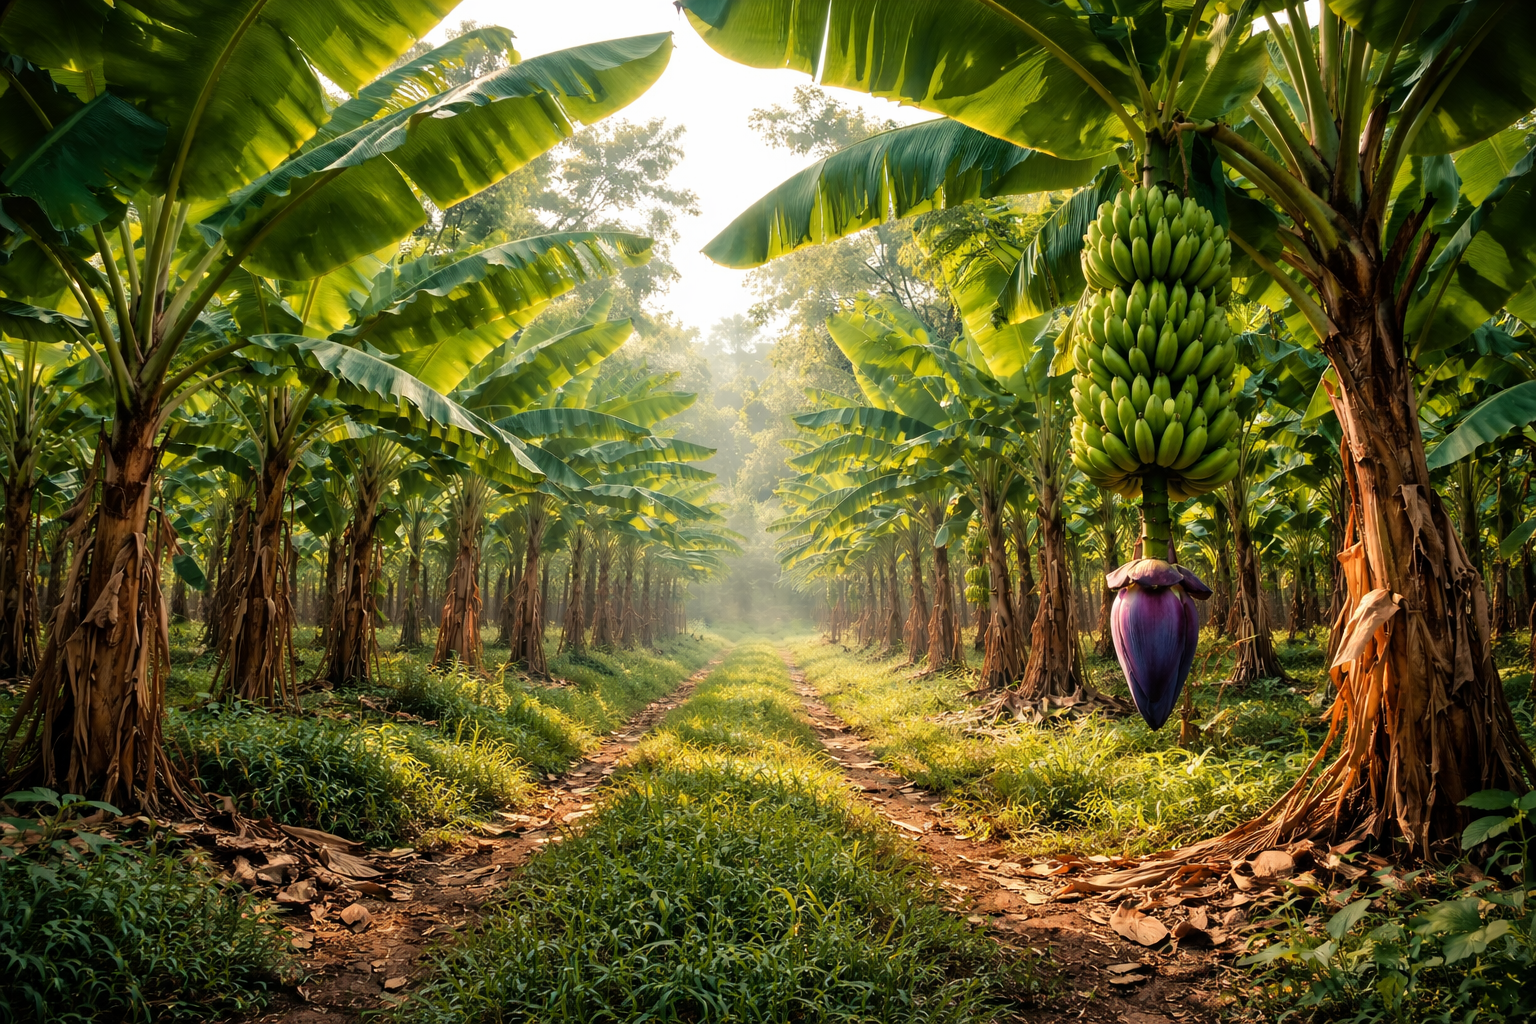
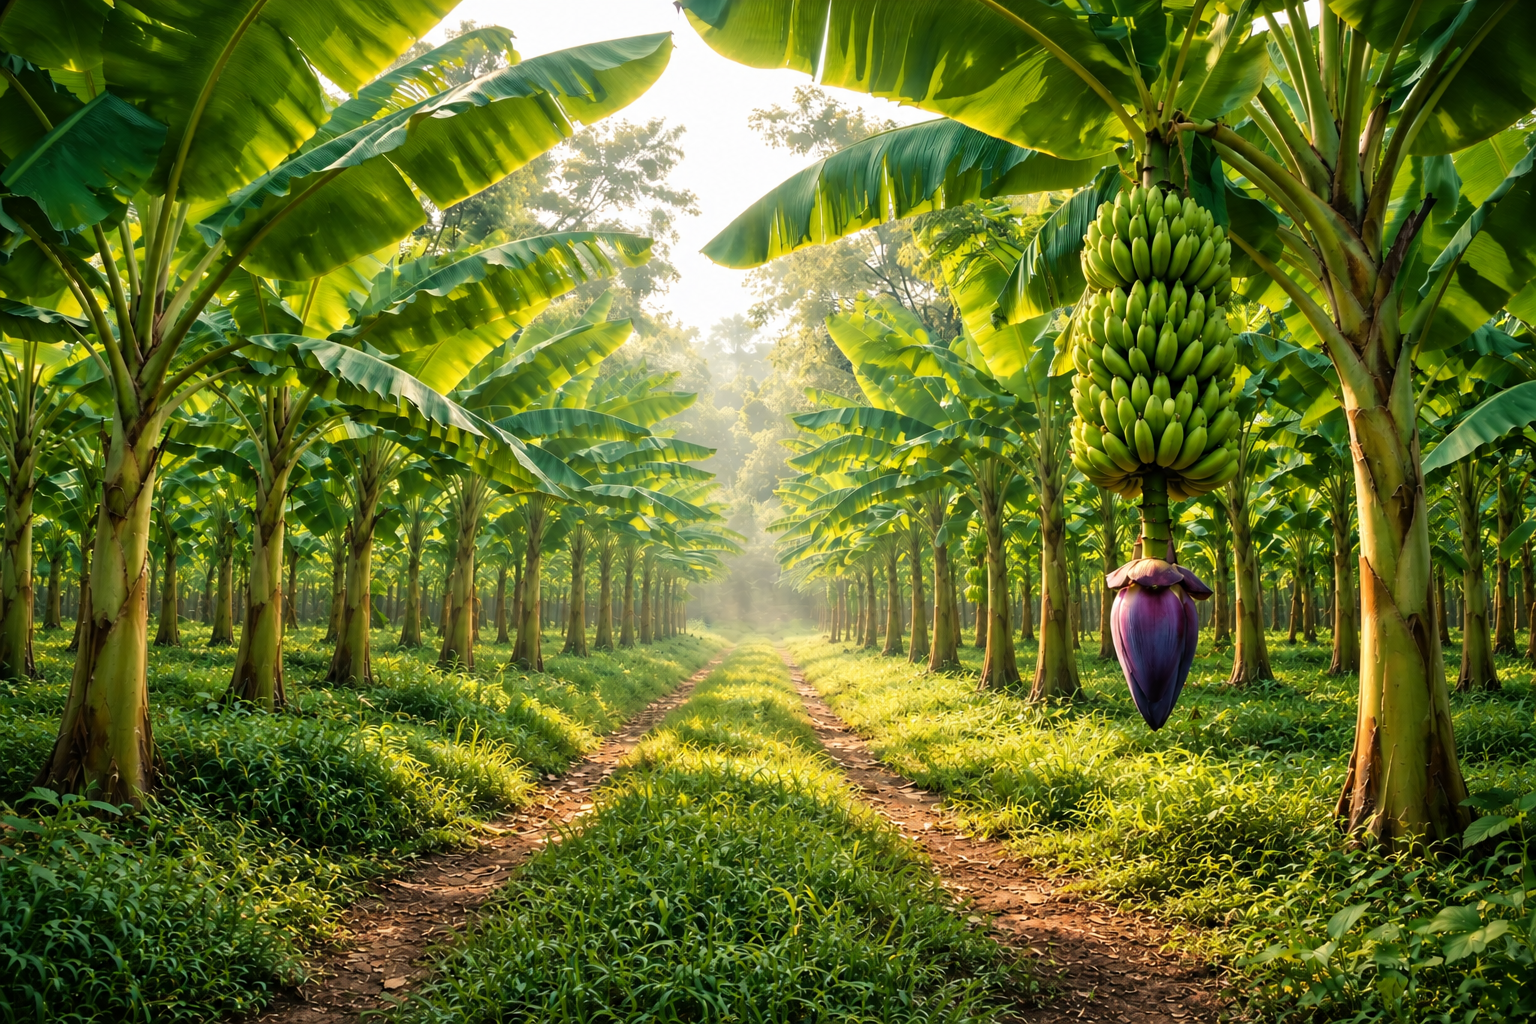
Troca o fundo e converte as imagens para webp
Novo bananal escolhido pelo usuario, e o bananal1 guardado ao lado para uso
futuro.

As duas viraram webp. O png de 1536x1024 pesava 3,2 MB - tres vezes e meia o
JS e o CSS da aplicacao inteira somados - porque png guarda cada pixel sem
perda, o que faz sentido para desenho e nao para foto. Em webp a mesma
imagem, na mesma resolucao, fica em 400 KB.

A diferenca nao aparece num fundo atras de conteudo, e os 2,8 MB economizados
eram quase meio minuto de espera na conexao de roca que o app existe para
atender. Os png originais ficam ao lado, caso se queira reexportar.

Claude-Session: https://claude.ai/code/session_018V8V6pJSJsctKsXMs5oRL3

diff --git a/src/styles.css b/src/styles.css
@@ -12,8 +12,12 @@ body {
   font-family: Roboto, 'Helvetica Neue', sans-serif;
 
   min-height: 100vh;
-  /* bananal como fundo de toda a página: aparece nas beiradas, atrás do conteúdo */
-  background: url('/img/bananal.png') center center / cover no-repeat fixed;
+  /* bananal como fundo de toda a página: aparece nas beiradas, atrás do conteúdo.
+     webp em vez do png: a mesma imagem, na mesma resolução, sai de 3,2 MB para
+     400 KB. Num fundo atrás de conteúdo a perda não aparece, e esses 2,8 MB
+     eram quase meio minuto de espera na conexão de roça que o app precisa
+     atender. O png fica ao lado, caso se queira reexportar. */
+  background: url('/img/bananal.webp') center center / cover no-repeat fixed;
 }
 
 /* no celular, background fixo trava/pisca em vários navegadores */
